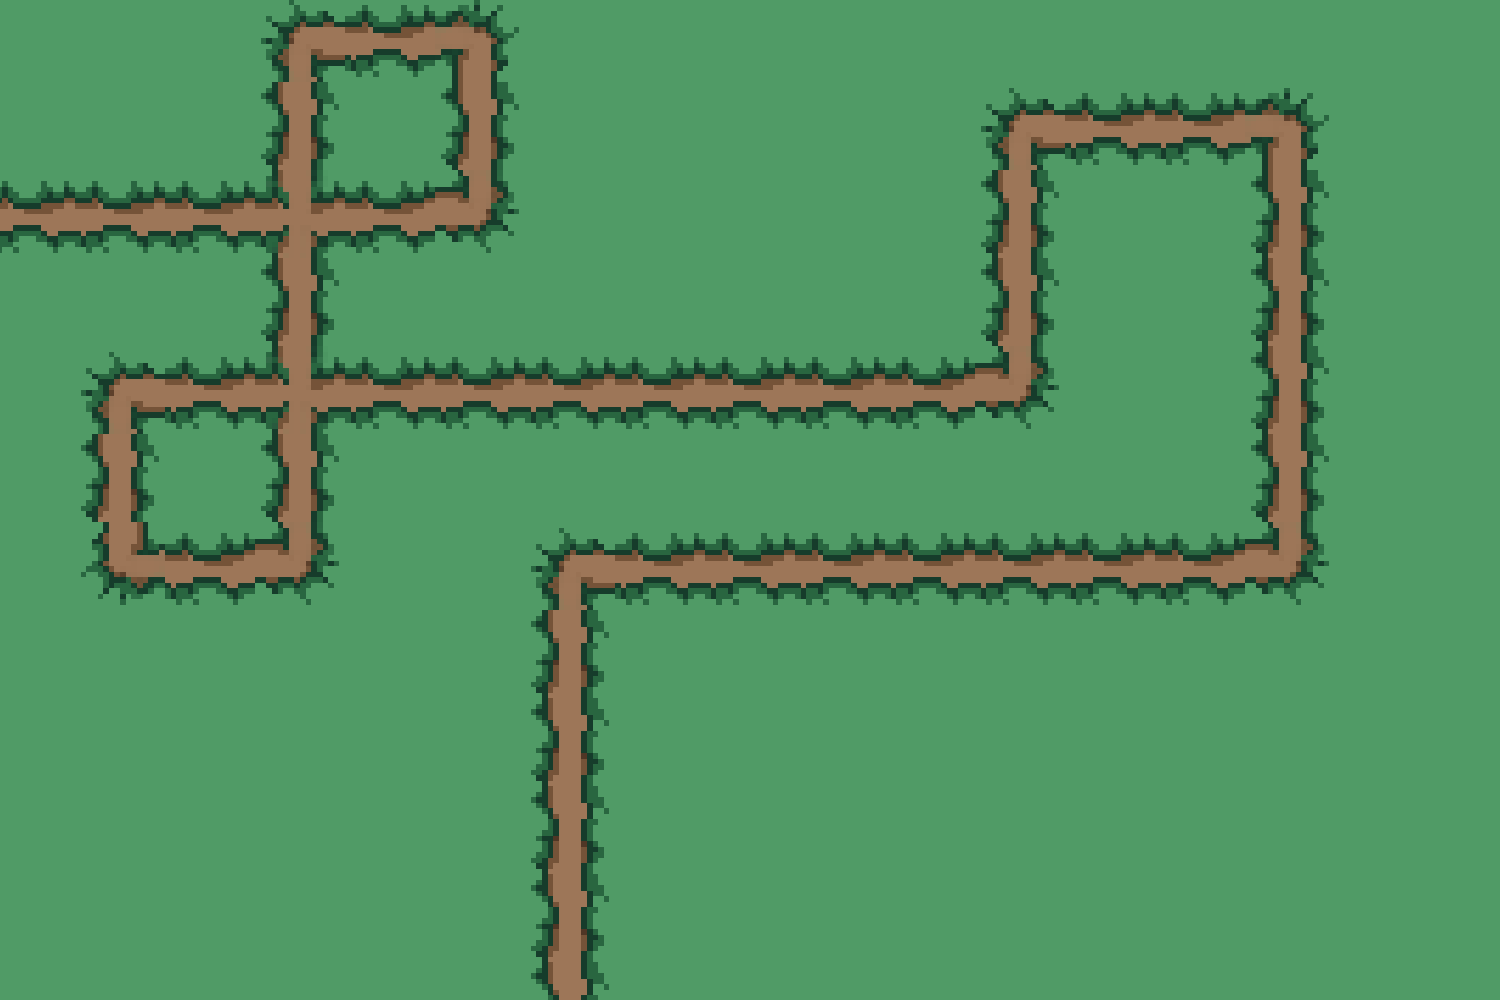
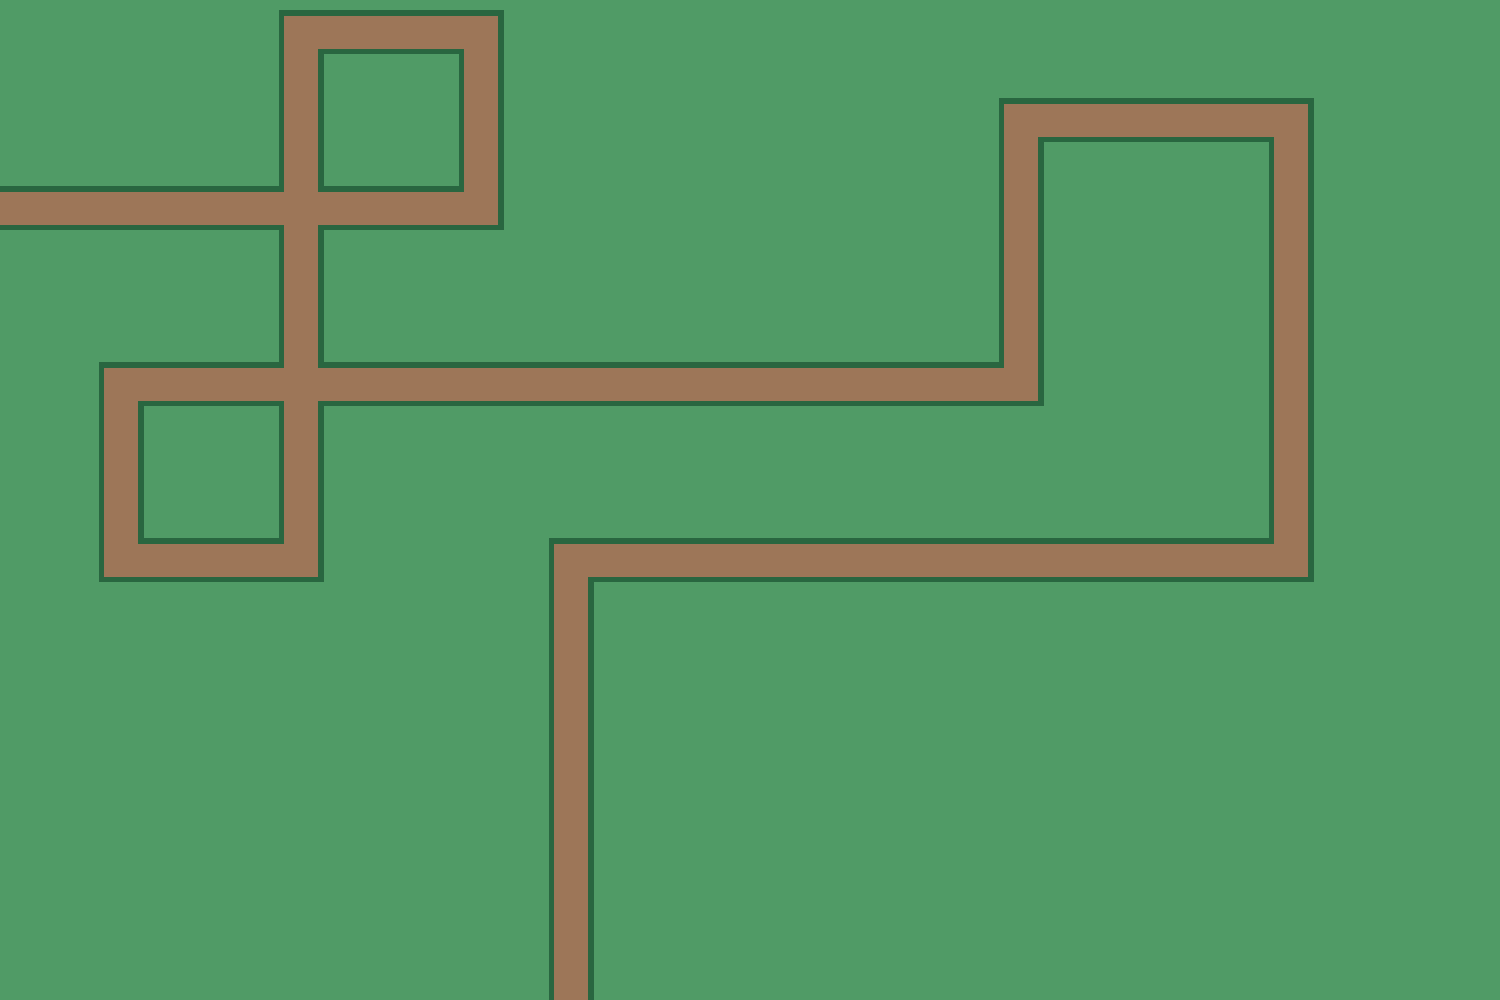
new map look and collision added

Changed region(s): [[0.0, 0.0, 0.8893, 1.0]]

diff --git a/src/mapGen.java b/src/mapGen.java
@@ -25,29 +25,29 @@ public class mapGen {
         //Tiles werden defieniert
 
         if (gp.rel) {
-            setup(0, "grid");
+            setup(0, "grid",false);
 
         } else {
-            setup(0, "grass");
+            setup(0, "grass",false);
         }
 
-        setup(2, "grass1.2");
-        setup(5, "grass2.5");
-        setup(7, "grass3.7");
-        setup(8, "grass3.8");
-        setup(9, "grass3.9");
-        setup(10, "grass3.10");
-        setup(11, "grass4.11");
-        setup(12, "baum.12");
+        setup(2, "grass1.2",true);
+        setup(5, "grass2.5",true);
+        setup(7, "grass3.7",true);
+        setup(8, "grass3.8",true);
+        setup(9, "grass3.9",true);
+        setup(10, "grass3.10",true);
+        setup(11, "grass4.11",true);
+        setup(12, "baum.12",true);
     }
-    public void setup(int index,String path){
+    public void setup(int index,String path,boolean collision){
 
       scaling sc = new scaling();
       try {
           tile[index]= new Tile();
           tile[index].image = ImageIO.read(getClass().getResourceAsStream("/pictures_map/"+path+".png"));
           tile[index].image = sc.scale(tile[index].image, UI_gamepanel.w_tileSize, UI_gamepanel.h_tileSize);
-
+          tile[index].collision = collision;
       }catch (IOException e){
           e.printStackTrace();
       }

diff --git a/src/UI_shop.java b/src/UI_shop.java
@@ -22,7 +22,8 @@ public class UI_shop {
     Tile[] sidebar;
     Point[] imageCorner;
     Point prevPt;
-    //TODO mehre tower von einer sorte auf dem bildschirm
+    //TODO mehre tower von einer sorte auf dem
+    //TODO Collison mit weg
     public UI_shop(UI_gamepanel gp) {
         tower = new Tile[20];
         feahigkeiten = new Tile[3];

diff --git a/src/UI_gamepanel.java b/src/UI_gamepanel.java
@@ -89,7 +89,7 @@ public class UI_gamepanel extends JPanel implements Runnable {
             System.out.println("Gegner gespawnt");
             gg.draw(g2);
         }*/
-        gg.draw(g2);
+        //gg.draw(g2);
 
         //UI
         ui.draw(g2);

diff --git a/src/Tile.java b/src/Tile.java
@@ -3,4 +3,5 @@ import java.awt.image.BufferedImage;
 //Ist dafür da damit ein BufferedImage Array erstellt werden kann
 public class Tile {
     public BufferedImage image;
+    public boolean collision = true;
 }
